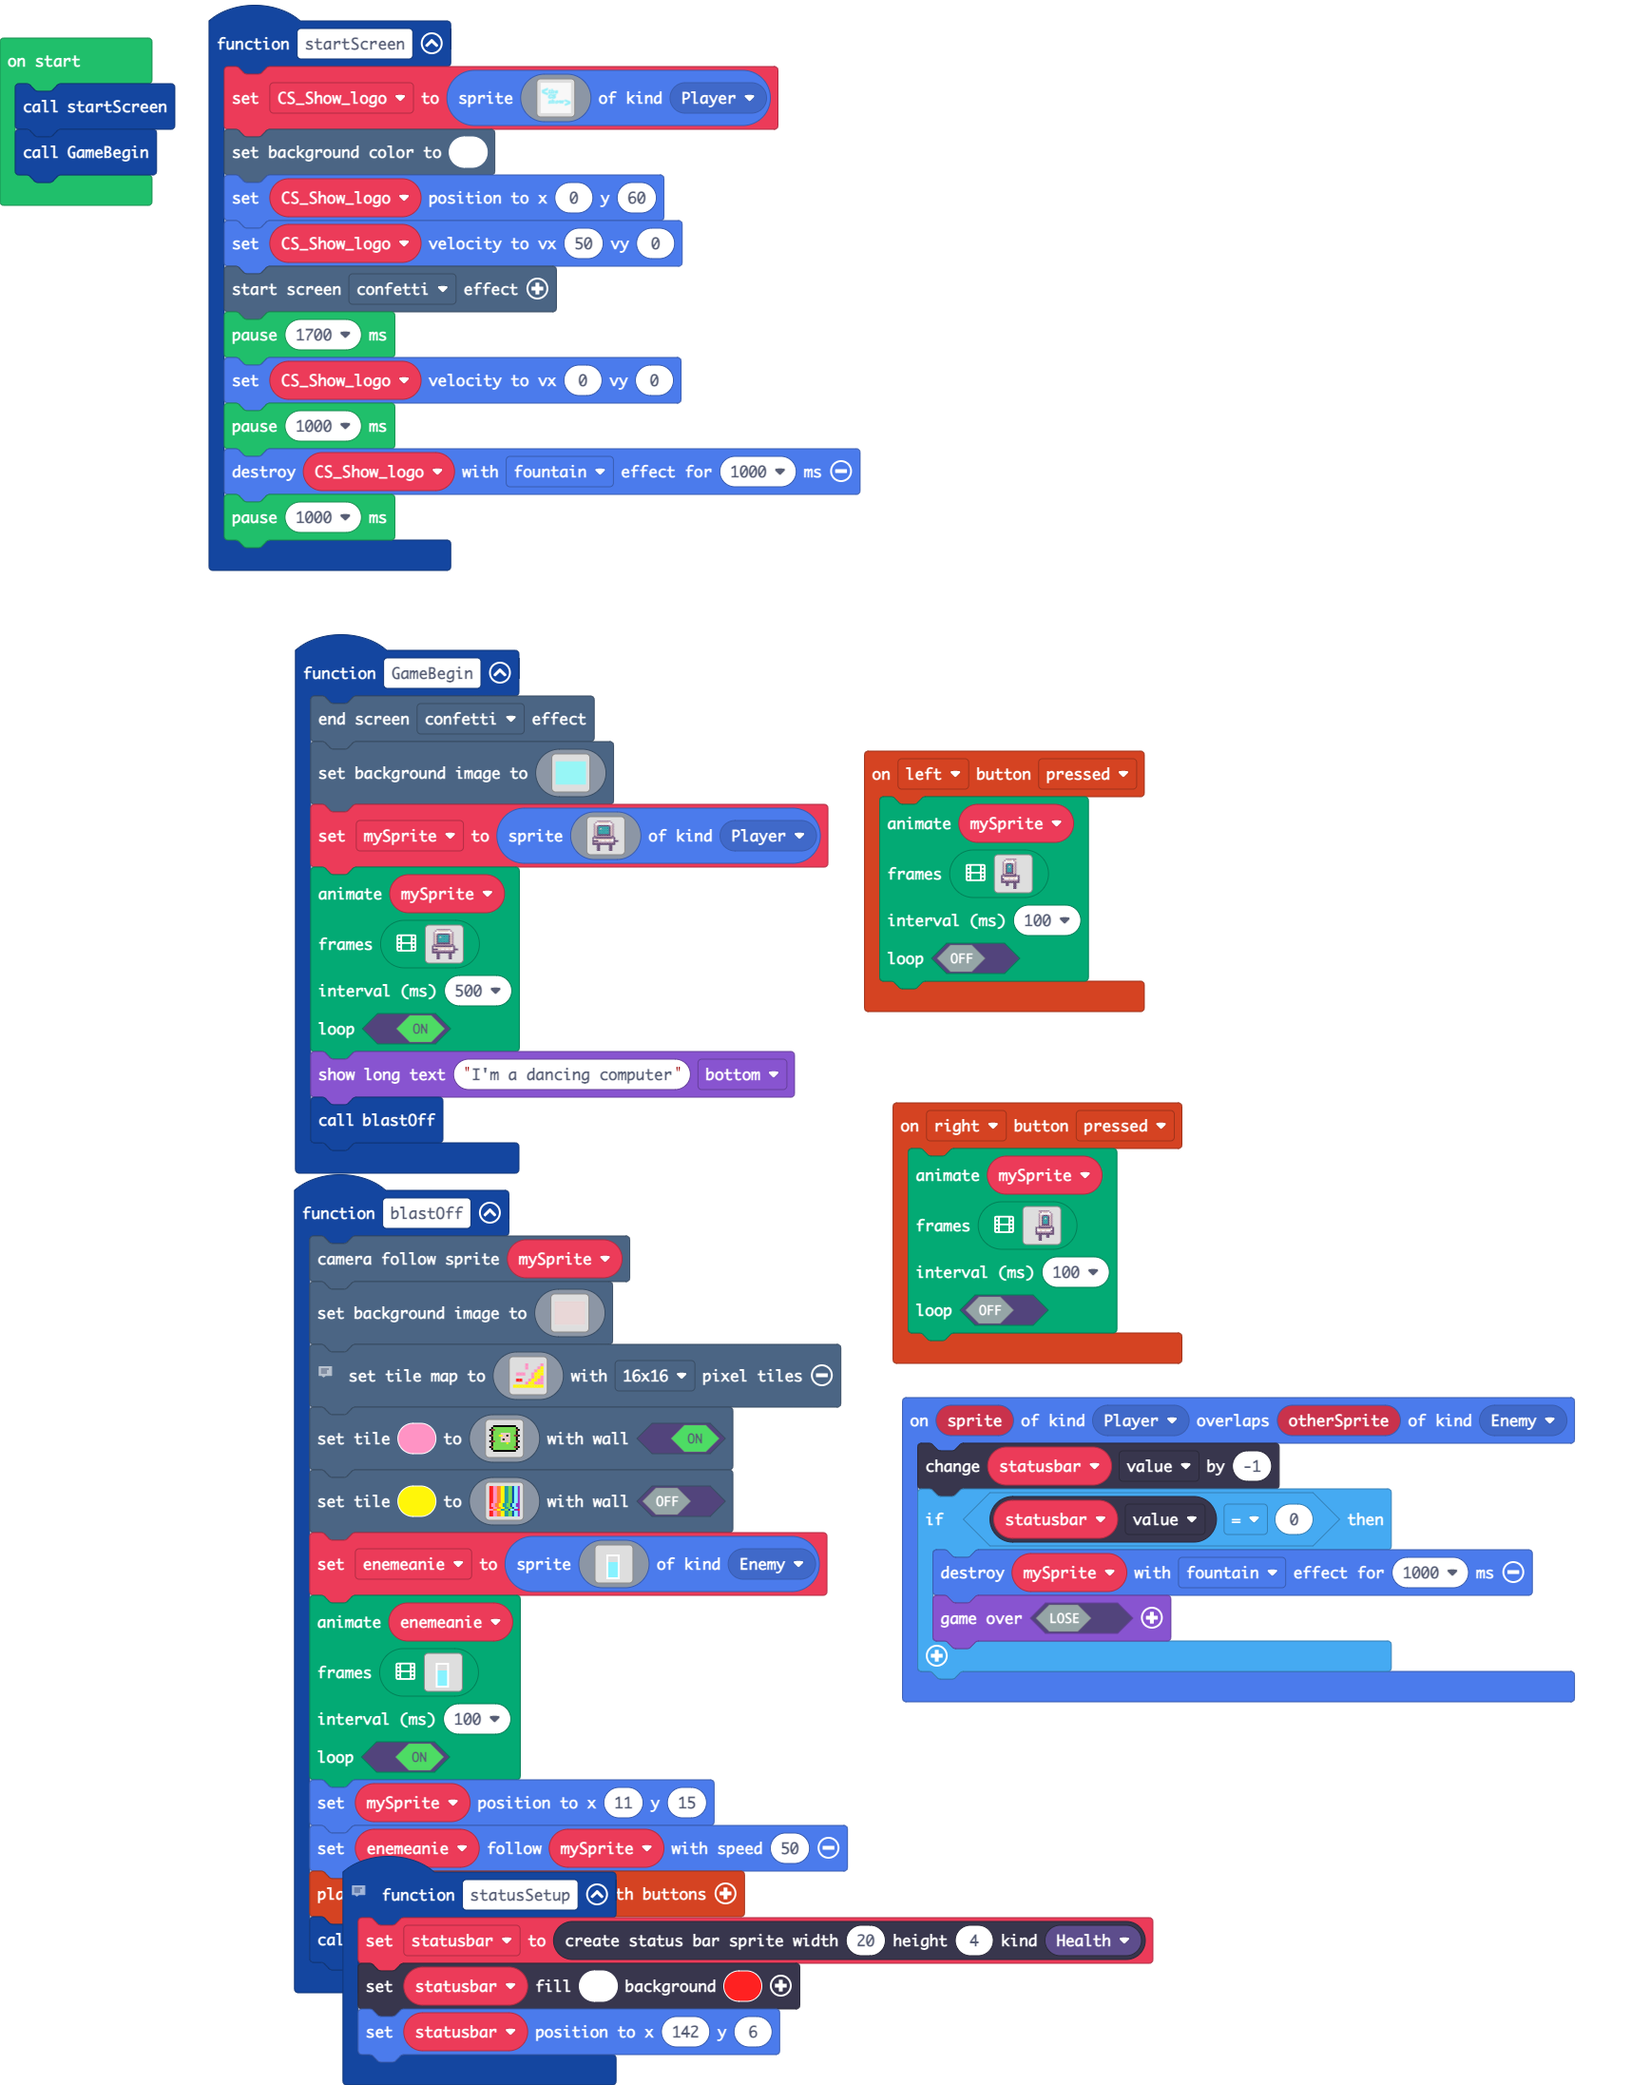
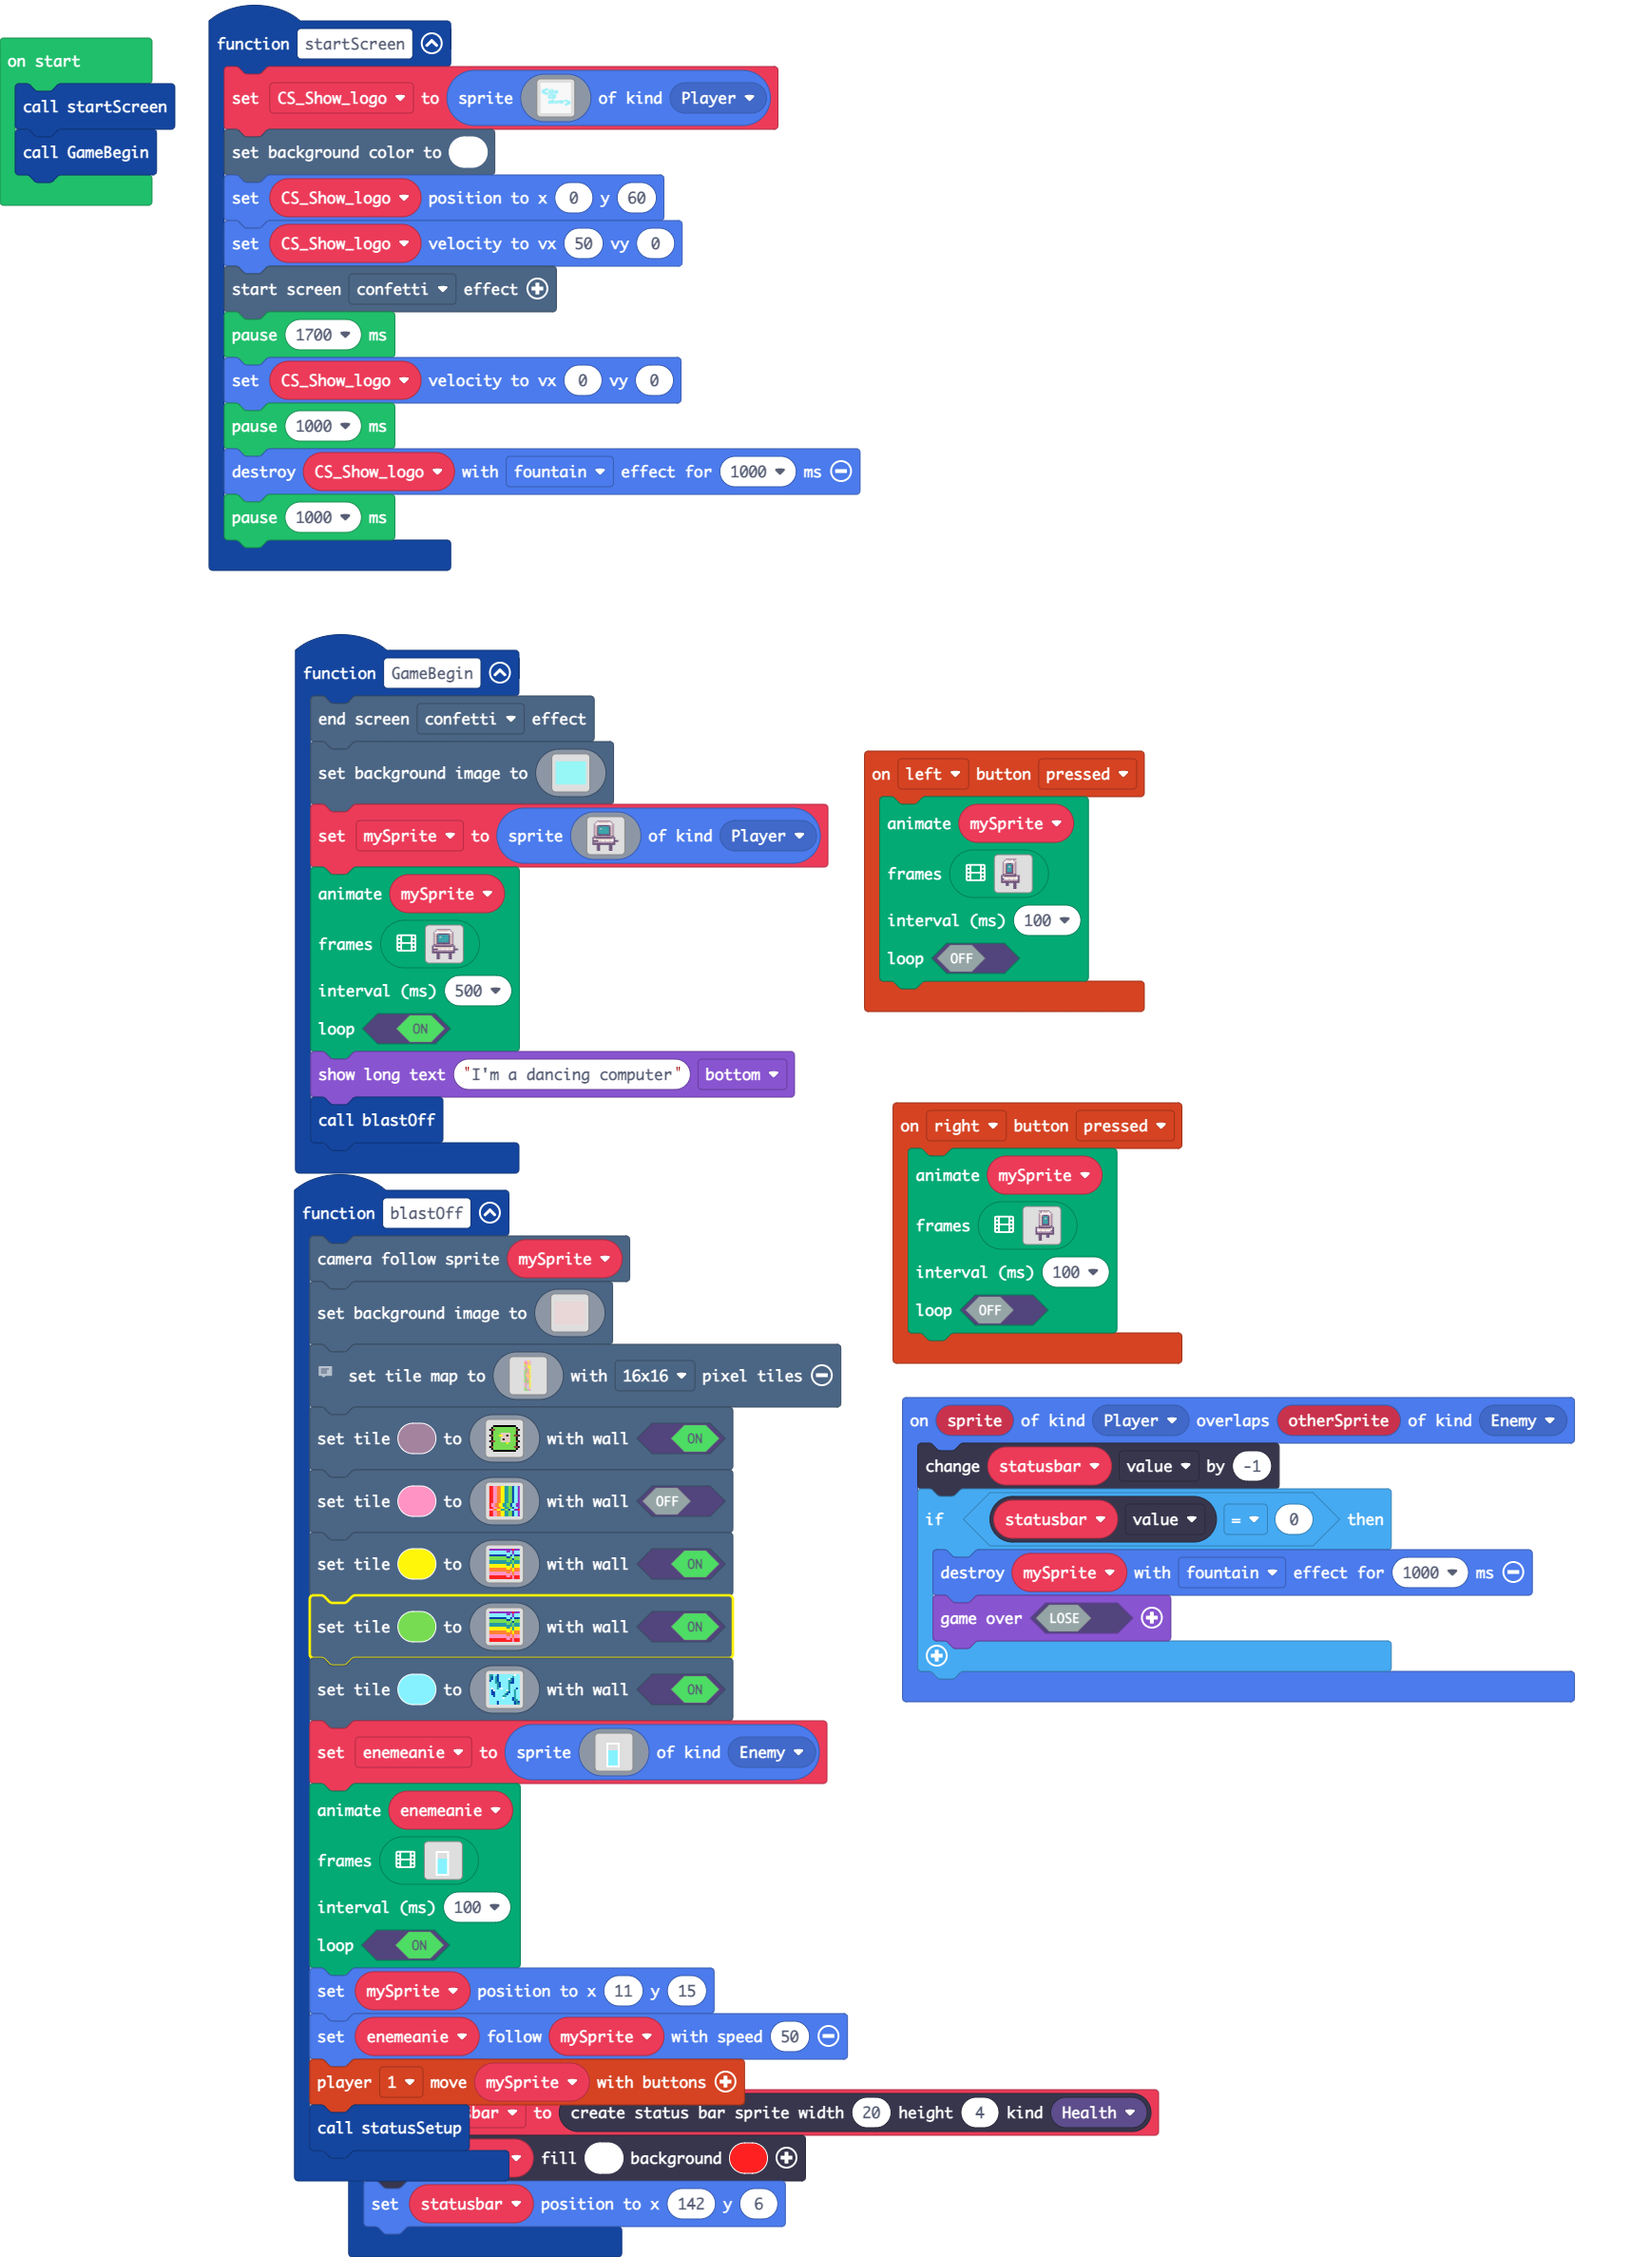
tall map

Changed region(s): [[0.0, 0.0, 0.9883, 1.0]]

diff --git a/main.ts b/main.ts
@@ -309,16 +309,58 @@ function blastOff () {
     // this is not just any tile map... this is from the color code tilemap extension
     // 
     scene.setTileMap(img`
-        . . . . 3 . . . . 3 
-        . . . . 3 . . . 3 5 
-        . . . . . . . 3 5 5 
-        . 3 3 3 . . 3 5 5 5 
-        . . . . . . 3 5 5 3 
-        . 2 2 . . 3 5 5 3 3 
-        . . . . 3 5 5 3 3 3 
-        5 5 5 5 5 5 5 5 5 5 
+        3333355553
+        3333355533
+        3333355333
+        3333333353
+        5223333553
+        5223335533
+        5553355333
+        5553333355
+        7773355555
+        7773355555
+        7733355555
+        7333335555
+        3337335555
+        3377333355
+        3377733355
+        3377777355
+        7773333355
+        7723333355
+        7777773355
+        7777773355
+        7733333255
+        7733333355
+        7733553355
+        7733553355
+        7733553335
+        7733553335
+        7733355525
+        7773335555
+        7777333355
+        7777733355
+        7773333355
+        7733333355
+        7723377355
+        7777777355
+        7723777355
+        7733777355
+        7733777355
+        3333733355
+        3337333355
+        3373339355
+        3373399355
+        3373399355
+        3333399355
+        7333399355
+        7773399355
+        7773399355
+        7773339333
+        7777333333
+        7777773333
+        7777777736
         `, TileScale.Sixteen)
-    scene.setTile(3, img`
+    scene.setTile(11, img`
         . . . . . . . . . . . . . . . . 
         . . f f f f f f f f f f f f . . 
         . f 7 7 7 7 7 7 7 7 7 7 7 7 f . 
@@ -336,7 +378,7 @@ function blastOff () {
         . . f f f f f f f f f f f f . . 
         . . . . . . . . . . . . . . . . 
         `, true)
-    scene.setTile(5, img`
+    scene.setTile(3, img`
         2 2 3 3 4 4 5 5 6 6 7 7 8 9 9 a 
         2 2 3 3 4 4 5 5 6 6 7 7 8 9 9 a 
         2 2 3 3 4 4 5 5 6 6 7 7 8 9 9 a 
@@ -354,6 +396,60 @@ function blastOff () {
         2 2 3 3 4 4 5 5 6 6 7 7 8 9 9 a 
         2 2 3 3 4 4 5 5 6 6 7 7 8 9 9 a 
         `, false)
+    scene.setTile(5, img`
+        a a a a a a a a a a a a 2 a a a 
+        9 9 9 9 9 9 9 9 9 a a 9 a 9 9 9 
+        9 9 9 9 9 9 9 9 9 9 9 9 a 9 9 9 
+        8 8 8 8 8 8 8 8 8 9 9 8 9 8 8 8 
+        7 7 7 7 7 7 7 7 7 8 8 7 9 7 7 7 
+        7 7 7 7 7 7 7 7 7 7 7 7 8 7 7 7 
+        6 6 6 6 6 6 6 6 6 7 7 6 7 6 6 6 
+        6 6 6 6 6 6 6 6 6 6 6 6 7 6 6 6 
+        5 5 5 5 5 5 5 5 5 6 6 5 6 5 5 5 
+        5 5 5 5 5 5 5 5 5 5 5 5 6 5 5 5 
+        4 4 4 4 4 4 4 4 4 5 5 4 5 4 4 4 
+        4 4 4 4 4 4 4 4 4 4 4 4 5 4 4 4 
+        3 3 3 3 3 3 3 3 3 4 4 3 4 3 3 3 
+        3 3 3 3 3 3 3 3 3 3 3 3 4 3 3 3 
+        2 2 2 2 2 2 2 2 2 3 3 2 3 2 2 2 
+        2 2 2 2 2 2 2 2 2 2 2 2 3 2 2 2 
+        `, true)
+    scene.setTile(7, img`
+        a a a a a a a a a a a a 2 a a a 
+        9 9 9 9 9 9 9 9 9 a a 9 a 9 9 9 
+        9 9 9 9 9 9 9 9 9 9 9 9 a 9 9 9 
+        8 8 8 8 8 8 8 8 8 9 9 8 9 8 8 8 
+        7 7 7 7 7 7 7 7 7 8 8 7 9 7 7 7 
+        7 7 7 7 7 7 7 7 7 7 7 7 8 7 7 7 
+        6 6 6 6 6 6 6 6 6 7 7 6 7 6 6 6 
+        6 6 6 6 6 6 6 6 6 6 6 6 7 6 6 6 
+        5 5 5 5 5 5 5 5 5 6 6 5 6 5 5 5 
+        5 5 5 5 5 5 5 5 5 5 5 5 6 5 5 5 
+        4 4 4 4 4 4 4 4 4 5 5 4 5 4 4 4 
+        4 4 4 4 4 4 4 4 4 4 4 4 5 4 4 4 
+        3 3 3 3 3 3 3 3 3 4 4 3 4 3 3 3 
+        3 3 3 3 3 3 3 3 3 3 3 3 4 3 3 3 
+        2 2 2 2 2 2 2 2 2 3 3 2 3 2 2 2 
+        2 2 2 2 2 2 2 2 2 2 2 2 3 2 2 2 
+        `, true)
+    scene.setTile(9, img`
+        6 6 9 9 8 9 9 9 9 9 9 9 9 1 9 9 
+        6 8 9 6 8 9 9 9 9 9 9 9 6 9 9 9 
+        6 8 9 6 8 9 9 9 9 9 1 6 8 9 9 9 
+        8 9 9 6 8 9 9 9 9 9 6 6 8 9 9 9 
+        9 9 9 6 6 8 9 9 9 9 6 8 8 9 9 9 
+        9 9 9 9 6 8 9 9 9 9 6 9 9 9 9 9 
+        9 9 9 9 6 8 9 9 9 9 6 9 9 9 9 9 
+        9 1 9 9 6 9 1 9 9 9 6 9 9 9 8 9 
+        9 8 1 9 9 9 9 9 9 1 6 9 9 6 9 9 
+        9 8 8 9 9 9 9 9 9 6 8 9 9 6 9 9 
+        9 8 8 9 9 9 9 9 6 8 9 9 9 6 9 9 
+        9 9 8 9 9 9 9 6 6 9 9 9 9 6 9 9 
+        9 9 9 9 9 9 9 1 9 9 9 9 8 6 9 9 
+        9 9 9 9 9 9 9 9 9 9 9 9 8 6 6 9 
+        9 9 9 9 8 9 9 9 9 9 9 9 9 8 6 8 
+        9 9 9 9 8 9 9 9 9 9 9 9 9 8 6 6 
+        `, true)
     enemeanie = sprites.create(assets.image`glassOfH2O`, SpriteKind.Enemy)
     animation.runImageAnimation(
     enemeanie,
